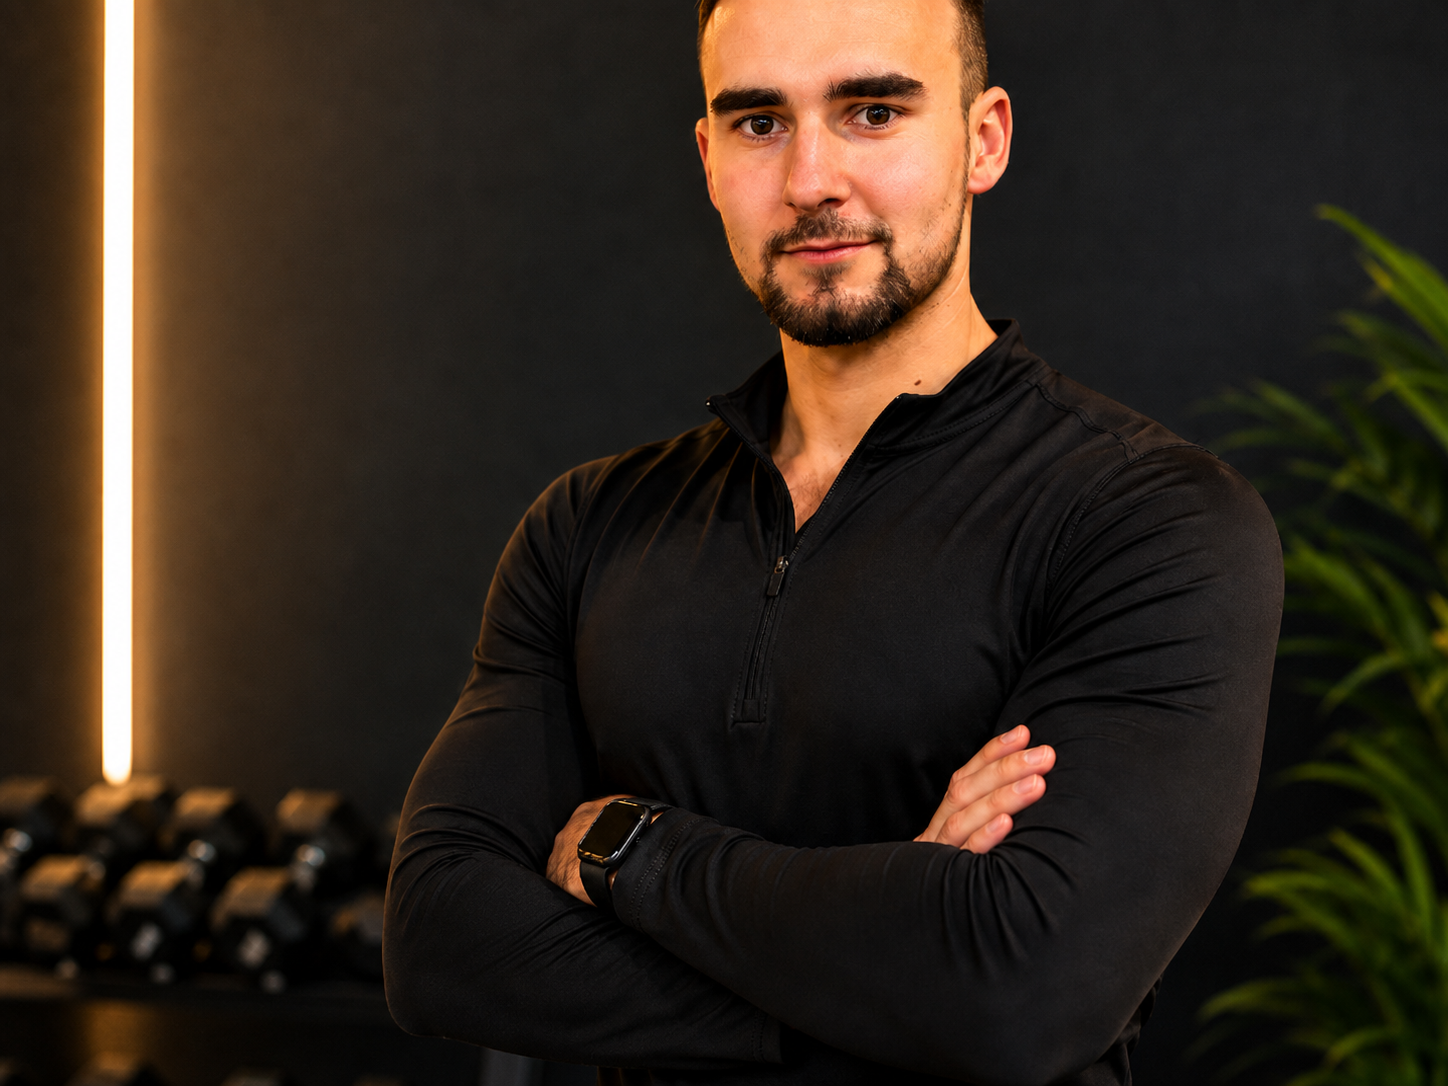
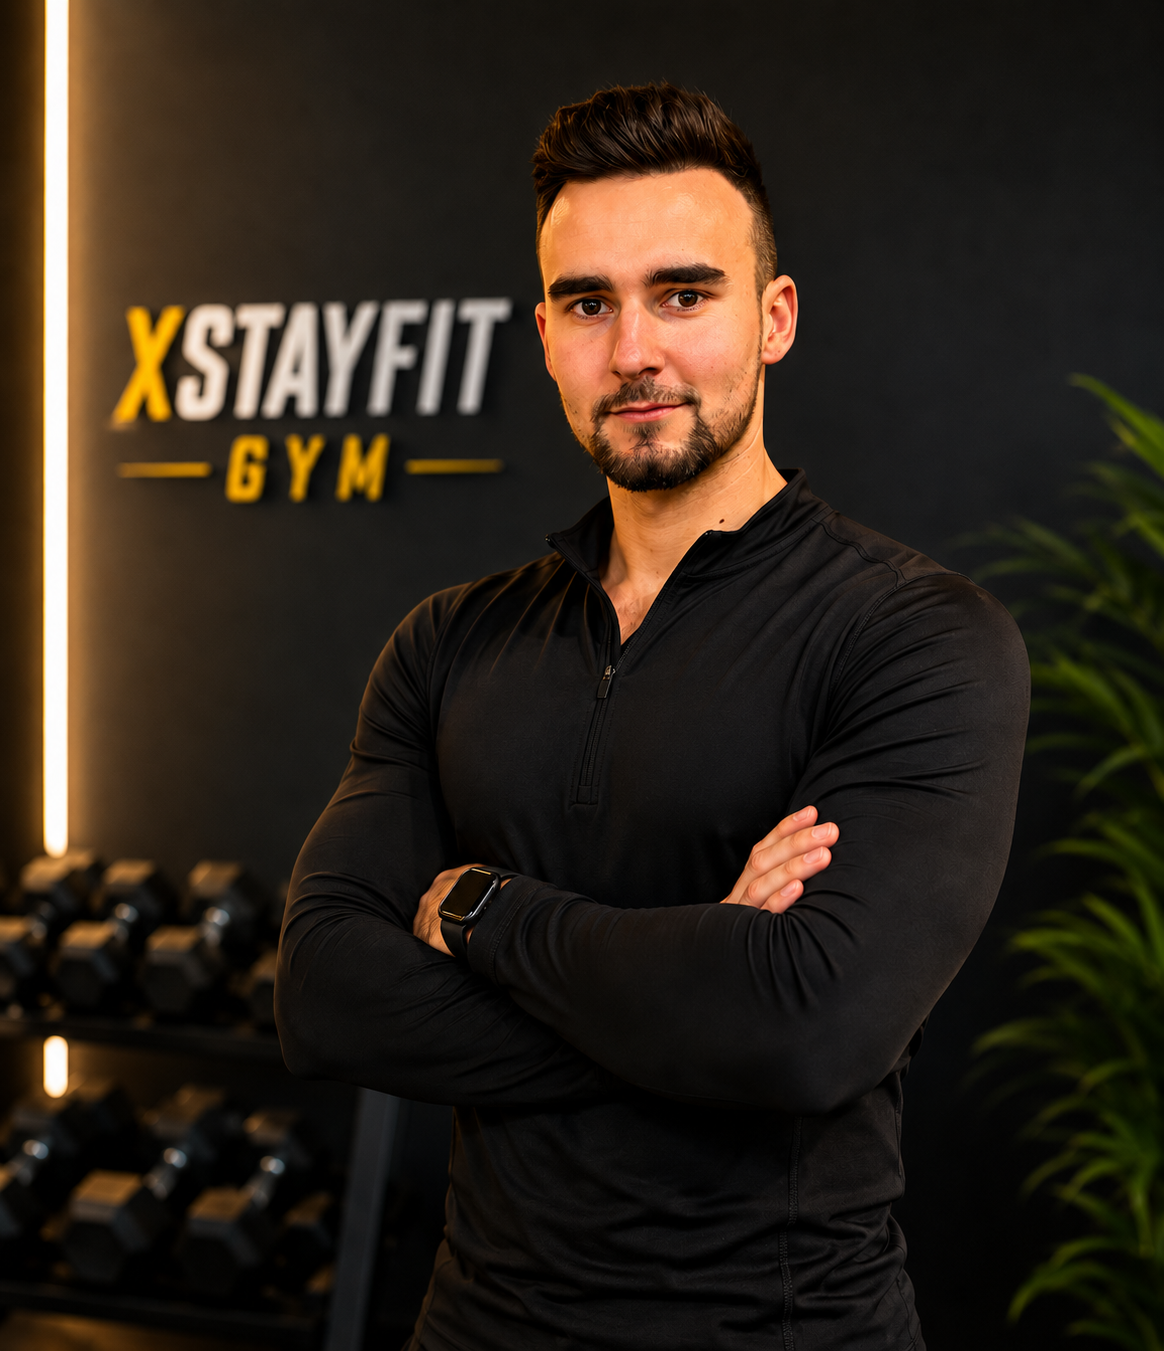
Add files via upload

diff --git a/index.html b/index.html
@@ -144,8 +144,8 @@
       position: relative;
       border-radius: 16px;
       overflow: hidden;
-      aspect-ratio: 4 / 3;
-      min-height: clamp(420px, 42vw, 560px);
+      aspect-ratio: 1164 / 1351;
+      min-height: 0;
       background: var(--bg-card);
       border: 1px solid rgba(255,255,255,0.08);
       box-shadow: 0 28px 80px rgba(0,0,0,0.45);
@@ -194,7 +194,7 @@
       .trust-strip { grid-template-columns: repeat(2, 1fr); }
     }
     @media (max-width: 520px) {
-      .hero-image { aspect-ratio: 4 / 3; }
+      .hero-image { aspect-ratio: 1164 / 1351; }
       .hero-actions .btn { width: 100%; justify-content: center; }
       .trust-strip { grid-template-columns: 1fr; }
     }
@@ -229,7 +229,7 @@
       gap: 4rem; align-items: center;
     }
     .about-image {
-      aspect-ratio: 4 / 3;
+      aspect-ratio: 1164 / 1351;
       background: var(--bg-card);
       border-radius: 16px;
       overflow: hidden;
@@ -260,7 +260,7 @@
     }
     @media (max-width: 768px) {
       .about-grid { grid-template-columns: 1fr; gap: 2.5rem; }
-      .about-image { aspect-ratio: 4 / 3; }
+      .about-image { aspect-ratio: 1164 / 1351; }
     }
 
     /* ===== SERVICES / CARDS ===== */
@@ -385,6 +385,273 @@
     .social-links a:hover { color: var(--accent); }
     @media (max-width: 640px) {
       footer .container { flex-direction: column; gap: 1rem; text-align: center; }
+    }
+
+    /* ===== MOBILE POLISH ===== */
+    @media (max-width: 640px) {
+      html { scroll-padding-top: 74px; }
+
+      .container {
+        padding: 0 1rem;
+      }
+
+      section {
+        padding: 3.25rem 0;
+      }
+
+      h1 {
+        font-size: 2.35rem;
+        line-height: 1.08;
+      }
+
+      h2 {
+        font-size: 1.85rem;
+        line-height: 1.15;
+      }
+
+      h3 {
+        font-size: 1.12rem;
+      }
+
+      .section-header {
+        margin-bottom: 2rem;
+      }
+
+      .section-tag {
+        font-size: 0.68rem;
+        letter-spacing: 0.12em;
+      }
+
+      .navbar {
+        padding: 0.85rem 0;
+      }
+
+      .navbar .logo {
+        font-size: 1.18rem;
+      }
+
+      .nav-toggle {
+        width: 42px;
+        height: 42px;
+        align-items: center;
+        justify-content: center;
+      }
+
+      .nav-links {
+        padding: 0.35rem 0;
+      }
+
+      .nav-links a {
+        padding: 0.9rem 1rem;
+        font-size: 0.95rem;
+      }
+
+      .hero {
+        min-height: auto;
+        padding-top: 5.4rem;
+        padding-bottom: 3rem;
+        align-items: flex-start;
+      }
+
+      .hero::before {
+        width: 100%;
+        height: 55%;
+        top: 8%;
+        right: -45%;
+      }
+
+      .hero-grid {
+        gap: 1.6rem;
+      }
+
+      .hero-content {
+        max-width: none;
+      }
+
+      .hero h1 {
+        margin-bottom: 1rem;
+      }
+
+      .hero p {
+        font-size: 1rem;
+        line-height: 1.6;
+        margin-bottom: 1.4rem;
+      }
+
+      .hero-actions {
+        gap: 0.75rem;
+      }
+
+      .btn {
+        min-height: 48px;
+        padding: 0.82rem 1rem;
+        font-size: 0.9rem;
+        text-align: center;
+      }
+
+      .hero-actions .btn svg {
+        flex: 0 0 auto;
+      }
+
+      .trust-strip {
+        grid-template-columns: repeat(2, 1fr);
+        margin-top: 1.4rem;
+        border-radius: 10px;
+      }
+
+      .trust-item {
+        padding: 0.85rem;
+      }
+
+      .trust-item strong {
+        font-size: 0.86rem;
+      }
+
+      .trust-item span {
+        font-size: 0.72rem;
+        line-height: 1.35;
+      }
+
+      .hero-image {
+        width: min(100%, 420px);
+        margin: 0 auto;
+        border-radius: 12px;
+        box-shadow: 0 18px 48px rgba(0,0,0,0.38);
+      }
+
+      .hero-badge {
+        left: 0.75rem;
+        right: 0.75rem;
+        bottom: 0.75rem;
+        max-width: none;
+        padding: 0.78rem 0.85rem;
+        border-radius: 10px;
+      }
+
+      .hero-badge strong {
+        font-size: 0.84rem;
+      }
+
+      .hero-badge span {
+        font-size: 0.7rem;
+        line-height: 1.35;
+      }
+
+      .about-grid {
+        gap: 1.8rem;
+      }
+
+      .about-image {
+        width: min(100%, 420px);
+        margin: 0 auto;
+        border-radius: 12px;
+      }
+
+      .about-text h2 {
+        text-align: left;
+        margin-bottom: 0.9rem;
+      }
+
+      .about-text p {
+        font-size: 0.95rem;
+        line-height: 1.65;
+        margin-bottom: 1rem;
+      }
+
+      .about-text .stats {
+        display: grid;
+        grid-template-columns: repeat(3, 1fr);
+        gap: 0.5rem;
+        margin-top: 1.4rem;
+        padding-top: 1.4rem;
+      }
+
+      .stats .stat-num {
+        font-size: 1.35rem;
+      }
+
+      .stats .stat-label {
+        font-size: 0.65rem;
+        line-height: 1.25;
+      }
+
+      .services-grid,
+      .testimonials-grid {
+        gap: 1rem;
+      }
+
+      .service-card,
+      .testimonial-card {
+        border-radius: 12px;
+        padding: 1.35rem;
+      }
+
+      .service-card .icon {
+        width: 42px;
+        height: 42px;
+        margin-bottom: 1rem;
+      }
+
+      .service-card p,
+      .testimonial-card blockquote {
+        font-size: 0.9rem;
+      }
+
+      .service-card .price {
+        font-size: 1.28rem;
+      }
+
+      .service-card .btn-outline {
+        width: 100%;
+        justify-content: center;
+        align-self: stretch;
+      }
+
+      .contact-wrapper {
+        max-width: none;
+      }
+
+      .form-group {
+        margin-bottom: 1rem;
+      }
+
+      .form-group input,
+      .form-group select,
+      .form-group textarea {
+        min-height: 48px;
+        font-size: 1rem;
+        padding: 0.82rem 0.9rem;
+      }
+
+      .form-group textarea {
+        min-height: 132px;
+      }
+
+      footer {
+        padding: 2rem 0 2.4rem;
+      }
+
+      .social-links {
+        width: 100%;
+        justify-content: center;
+        flex-wrap: wrap;
+        gap: 0.85rem 1rem;
+      }
+    }
+
+    @media (max-width: 380px) {
+      h1 { font-size: 2.05rem; }
+      h2 { font-size: 1.65rem; }
+
+      .trust-strip,
+      .about-text .stats {
+        grid-template-columns: 1fr;
+      }
+
+      .hero-badge {
+        position: static;
+        margin: 0.75rem;
+      }
     }
 
     /* ===== SCROLLBAR ===== */